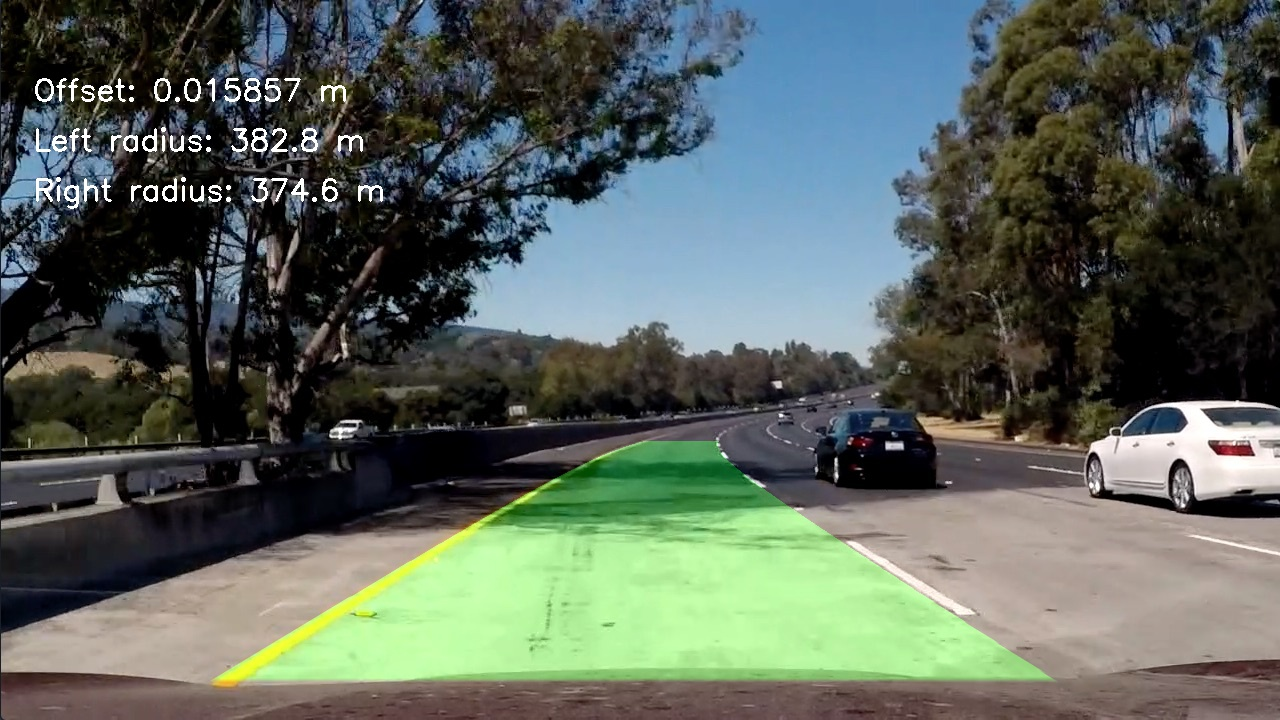
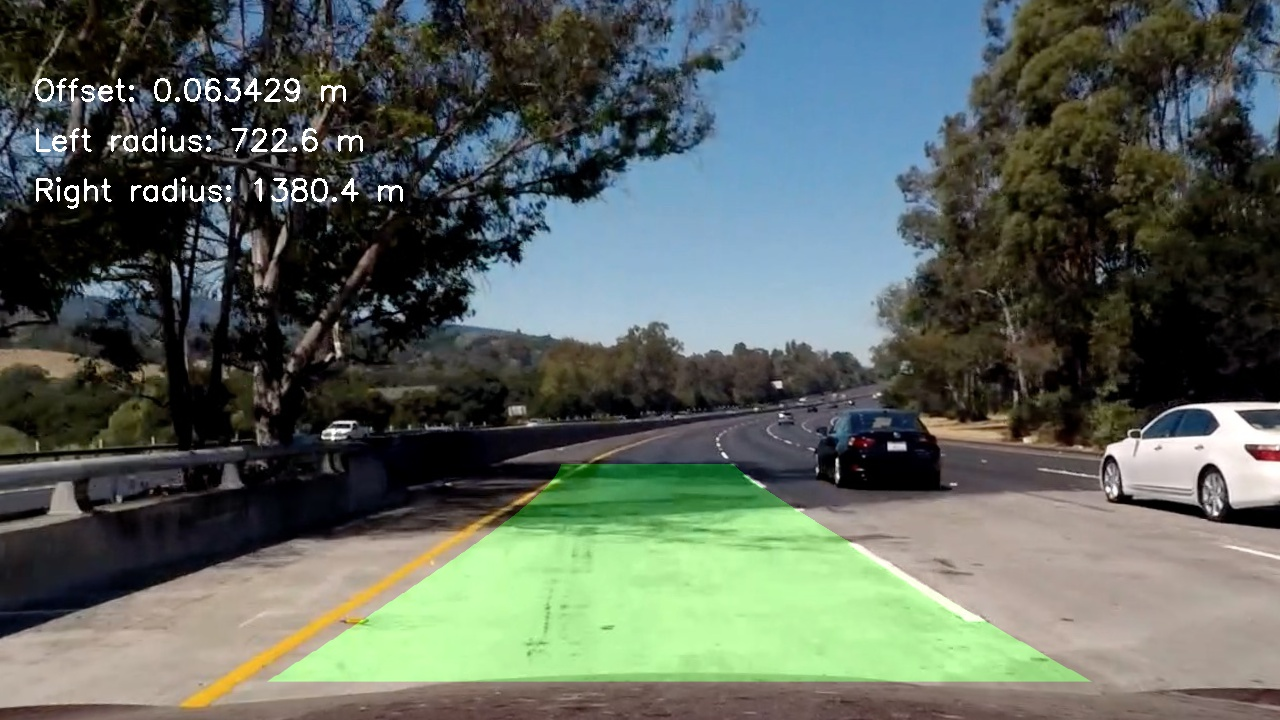
Use undistorted images for output (review feedback)

diff --git a/lanelines.py b/lanelines.py
@@ -88,7 +88,7 @@ def undistort_image(img, mtx, dist):
 
 # Originally copied from 30. Color and Gradient
 # assume img in BGR format
-def threshold_pipeline(img, sobel_x_thresh=(45, 200), luv_l_thresh=(225, 255), lab_b_thresh=(200, 255)):
+def threshold_pipeline(img, sobel_x_thresh=(45, 200), luv_l_thresh=(225, 255), lab_b_thresh=(191, 255)):
     img = np.copy(img)
     # Tweaked thresholding according to first reviwer's suggestions for improvements:
     # White is detected well with L of LUV color space [225, 255]
@@ -307,7 +307,7 @@ def sideways_offset_lane_center(width, left_centers, right_centers):
 
 # Project polynomials onto original image
 # Originally from course materials "36. Tips and Tricks for the Project" but modified
-def project_onto_original(original_img, warped, ploty, left_fitx, right_fitx, Minv):
+def project_onto_original(undistorted_img, warped, ploty, left_fitx, right_fitx, Minv):
     # Create an image to draw the lines on
     warp_zero = np.zeros_like(warped).astype(np.uint8)
     color_warp = np.dstack((warp_zero, warp_zero, warp_zero))
@@ -321,9 +321,9 @@ def project_onto_original(original_img, warped, ploty, left_fitx, right_fitx, Mi
     cv2.fillPoly(color_warp, np.int_([pts]), (0, 255, 0))
 
     # Warp the blank back to original image space using inverse perspective matrix (Minv)
-    newwarp = cv2.warpPerspective(color_warp, Minv, (original_img.shape[1], original_img.shape[0]))
+    newwarp = cv2.warpPerspective(color_warp, Minv, (undistorted_img.shape[1], undistorted_img.shape[0]))
     # Combine the result with the original image
-    result = cv2.addWeighted(original_img, 1, newwarp, 0.3, 0)
+    result = cv2.addWeighted(undistorted_img, 1, newwarp, 0.3, 0)
     return result
 
 
@@ -351,7 +351,7 @@ def process_image(original_img, mtx, dist, conv_rgb_to_bgr=True):
 
     # Overlay original image with mask of area between lane lines, print radius and sideways offset
     Minv = np.linalg.inv(M)
-    original_img_overlaid = project_onto_original(original_img, binary_warped, ploty, left_fitx, right_fitx, Minv)
+    original_img_overlaid = project_onto_original(undistorted_img, binary_warped, ploty, left_fitx, right_fitx, Minv)
     font = cv2.FONT_HERSHEY_SIMPLEX
     cv2.putText(original_img_overlaid,'Offset: %f m' %(meters_sideways_offset), (33, 100), font, 1, (255, 255, 255), 2)
     cv2.putText(original_img_overlaid,'Left radius: %.1f m' %(left_curverad), (33, 150), font, 1, (255, 255, 255), 2)

diff --git a/writeup_images_generator.py b/writeup_images_generator.py
@@ -8,7 +8,7 @@ calibration_f_name = 'camera_cal/calibration1.jpg'
 test1_f_name = 'test_images/test1.jpg'
 straight_lines1_f_name = 'test_images/straight_lines1.jpg'
 curve_f_name = 'test_images/test5.jpg'
-dirty_f_name = 'test_images/dirty.png'
+dirty_f_name = 'test_images/dirty_to_black.png'
 
 # Outputs, should all go into output_images directory
 undistorted_calibration_f_name = 'output_images/undistorted_calibration.jpg'
@@ -21,7 +21,7 @@ warped_dirty_f_name = 'output_images/dirty_warped.jpg'
 curve_warped_annotated_f_name = 'output_images/curve_warped_annotated.jpg'
 dirty_warped_annotated_f_name = 'output_images/dirty_warped_annotated.jpg'
 curve_result_f_name = 'output_images/curve_result.jpg'
-dirty_result_f_name = 'output_images/dirty_result.jpg'
+dirty_result_f_name = 'output_images/dirty_to_black_result.jpg'
 
 
 def main():
@@ -79,16 +79,19 @@ def main():
 
 
     # Generate final video frames using sample images
-    curve_result_img = ll.process_image(curve_image, mtx, dist)
+    curve_result_img = ll.process_image(curve_image, mtx, dist, False)
     cv2.imwrite(curve_result_f_name, curve_result_img)
 
-    dirty_result_img = ll.process_image(dirty_image, mtx, dist)
+    dirty_result_img = ll.process_image(dirty_image, mtx, dist, False)
     cv2.imwrite(dirty_result_f_name, dirty_result_img)
 
     return
 
+# Keep this method in sync with lanelines.process_image(), except for RGB/BGR mixup
+def process_image_to_annotaded_overhead(original_img, mtx, dist, conv_rgb_to_bgr=False):
+    if (conv_rgb_to_bgr):
+        original_img = cv2.cvtColor(original_img, cv2.COLOR_RGB2BGR)
 
-def process_image_to_annotaded_overhead(original_img, mtx, dist):
     undistorted_img = ll.undistort_image(original_img, mtx, dist)
     color_binary, combined_binary = ll.threshold_pipeline(undistorted_img)
     src, dst = ll.transform_src_and_dst(undistorted_img)
@@ -96,6 +99,9 @@ def process_image_to_annotaded_overhead(original_img, mtx, dist):
     # Mark left/right lines with colors, calculate left/right fit polynomials
     out_img, ploty, left_fitx, right_fitx, left_lane_center, right_lane_center = \
         ll.find_lane_lines(binary_warped)
+
+    if (conv_rgb_to_bgr):
+        out_img = cv2.cvtColor(out_img, cv2.COLOR_BGR2RGB)
     return out_img
 
 
